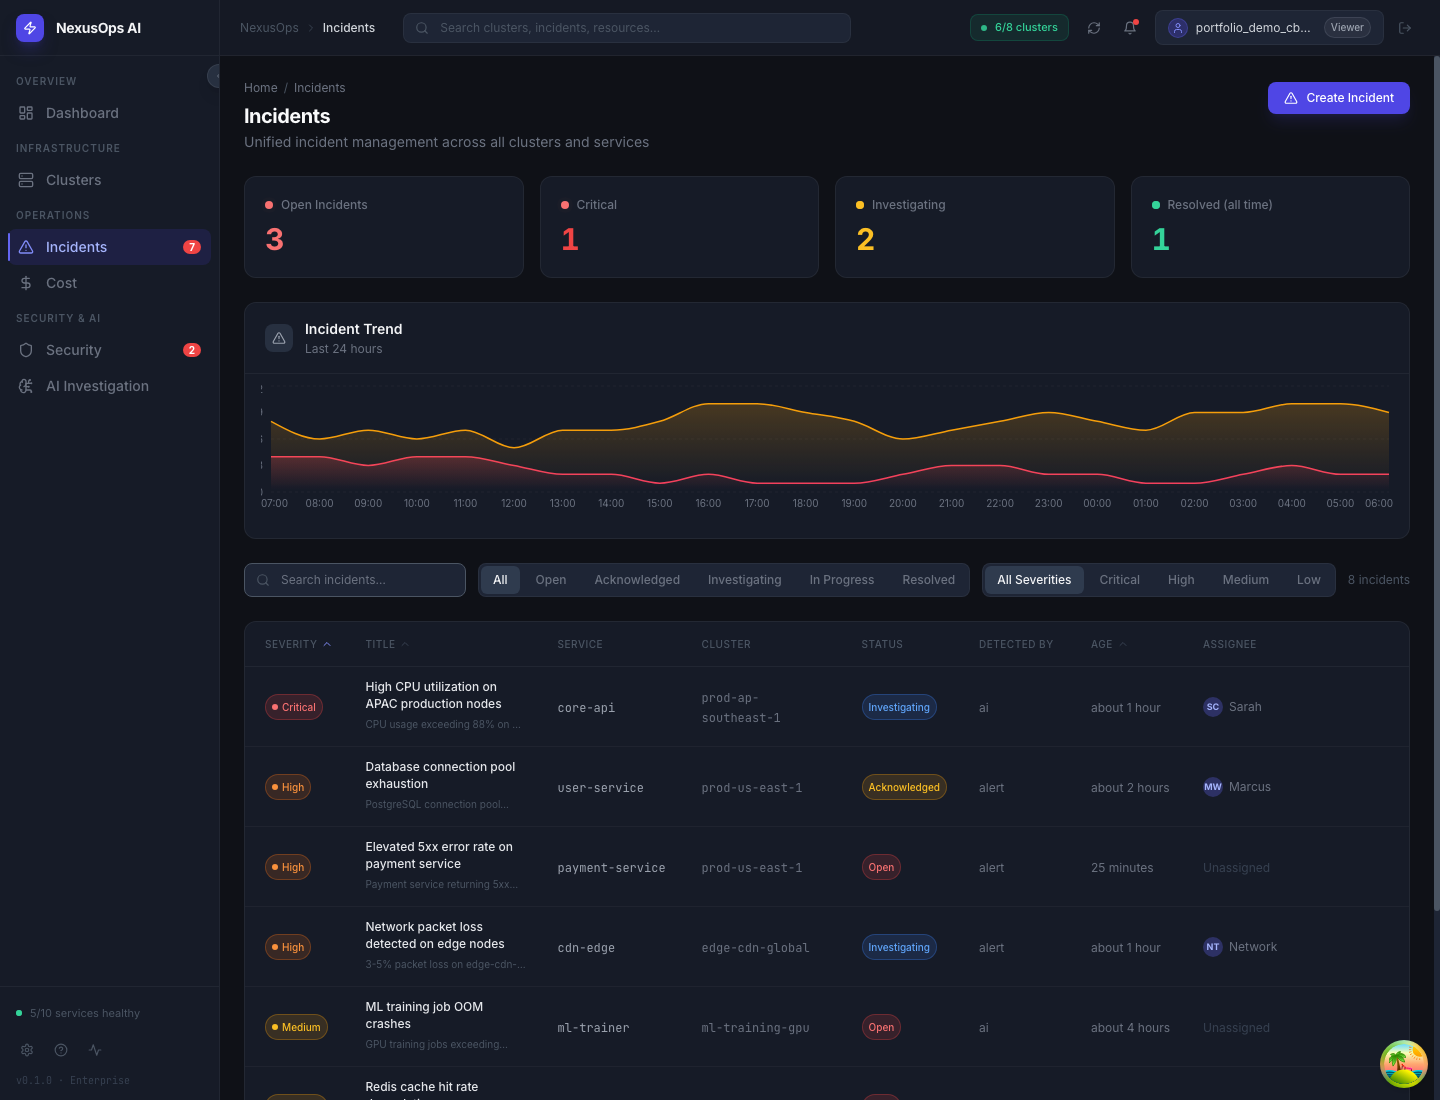
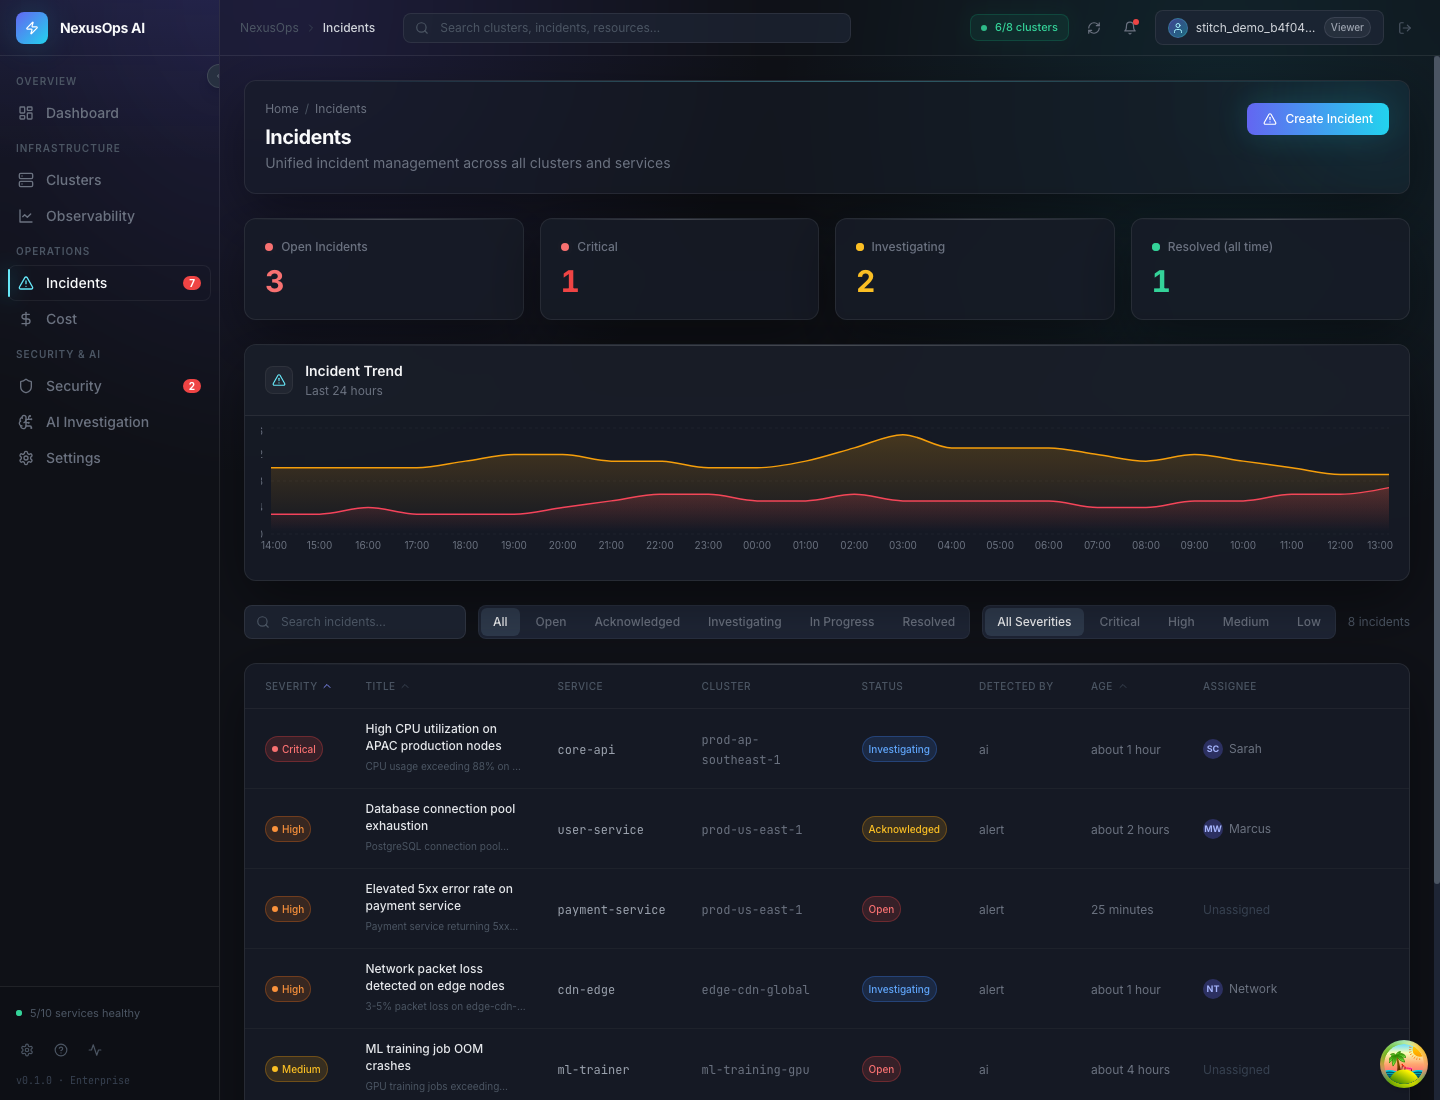
docs: refresh stitch command center screenshots

diff --git a/README.md b/README.md
@@ -42,13 +42,17 @@ The project is intentionally built as an engineering showcase, not a CRUD demo. 
 |---|---|
 | ![Dashboard](docs/screenshots/dashboard.png) | ![Infrastructure](docs/screenshots/infrastructure.png) |
 
-| Incidents | Security |
+| Observability | Incidents |
 |---|---|
-| ![Incidents](docs/screenshots/incidents.png) | ![Security](docs/screenshots/security.png) |
+| ![Observability](docs/screenshots/observability.png) | ![Incidents](docs/screenshots/incidents.png) |
 
-| Cost Optimization | AI Investigation |
+| Security | Cost Optimization |
 |---|---|
-| ![Cost Optimization](docs/screenshots/cost-optimization.png) | ![AI Investigation](docs/screenshots/ai-investigation.png) |
+| ![Security](docs/screenshots/security.png) | ![Cost Optimization](docs/screenshots/cost-optimization.png) |
+
+| AI Investigation | Settings |
+|---|---|
+| ![AI Investigation](docs/screenshots/ai-investigation.png) | ![Settings](docs/screenshots/settings.png) |
 
 ---
 
@@ -260,6 +264,8 @@ Response:
 - [Terraform Security & Drift](docs/terraform-security-drift.md)
 - [Cost Optimization & Resource Intelligence](docs/cost-optimization-resource-intelligence.md)
 - [Demo Scenarios](docs/demo-scenarios.md)
+- [Stitch Design System](docs/design/stitch/DESIGN.md)
+- [Stitch Integration Notes](docs/design/stitch/retrieval-report.md)
 - [API Reference](docs/api.md)
 - [Developer Onboarding](docs/onboarding.md)
 - [Deployment Guide](docs/deployment.md)

diff --git a/docs/screenshots/README.md b/docs/screenshots/README.md
@@ -6,10 +6,12 @@ These screenshots were generated from the local Docker Compose stack using demo 
 |---|---|
 | Dashboard | ![Dashboard](dashboard.png) |
 | Infrastructure | ![Infrastructure](infrastructure.png) |
+| Observability | ![Observability](observability.png) |
 | Incidents | ![Incidents](incidents.png) |
 | Security | ![Security](security.png) |
 | Cost Optimization | ![Cost Optimization](cost-optimization.png) |
 | AI Investigation | ![AI Investigation](ai-investigation.png) |
+| Settings | ![Settings](settings.png) |
 
 To regenerate screenshots, start Chrome with remote debugging and run:
 
